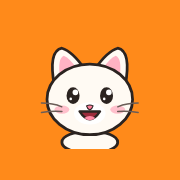
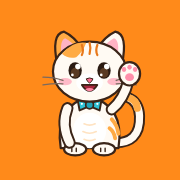
Мурфография: большой кот машет лапкой на заставке, заставка без задержки
- Кот с поднятой «пальцем» лапкой убран везде: вместо него открытая лапка с подушечками (машет «привет»).
- На заставке новый большой кот во весь рост: машет лапкой, виляет хвостом, наклоняет голову, бантик.
- Шрифты Google больше не задерживают первый кадр: раньше при медленной сети страница была пустой
  до 6 секунд и телефон всё это время показывал свою заставку с иконкой. Теперь первый кадр — через 0,07 с.
- Фон страницы оранжевый с самого начала, до загрузки стилей.
- Service worker: сначала сеть (до 3 с), потом кэш — обновления видны сразу. Версия slovarik-v10.
- Иконки с новым котом.

Claude-Session: https://claude.ai/code/session_01NLq2erx4juuCmVjw6yRYvR

Changed region(s): [[0.2222, 0.1667, 0.8056, 0.8889]]

diff --git a/public/slovarik/index.html b/public/slovarik/index.html
@@ -9,11 +9,12 @@
 <link rel="icon" href="icon-192.png" type="image/png">
 <link rel="apple-touch-icon" href="icon-180.png">
 <meta name="theme-color" content="#ff8a1a">
+<style id="boot">html { background: #ff8a1a; }</style>
 <meta name="apple-mobile-web-app-capable" content="yes">
 <meta name="apple-mobile-web-app-title" content="Мурфография">
 <link rel="preconnect" href="https://fonts.googleapis.com">
 <link rel="preconnect" href="https://fonts.gstatic.com" crossorigin>
-<link rel="stylesheet" href="https://fonts.googleapis.com/css2?family=Neucha&family=Nunito:wght@500;700;800;900&display=swap">
+<link rel="stylesheet" href="https://fonts.googleapis.com/css2?family=Neucha&family=Nunito:wght@500;700;800;900&display=swap" media="print" onload="this.media='all'">
 <style>
 :root {
   --paper: #fbfbf6;
@@ -251,9 +252,19 @@ img.thumb { width: 28px; height: 28px; border-radius: 7px; object-fit: cover; bo
 .splash::after { content: ""; position: absolute; inset: 0; background: radial-gradient(circle at 50% 42%, rgba(255,214,90,.75), rgba(255,138,26,0) 45%), radial-gradient(circle at 50% 120%, rgba(232,70,40,.55), rgba(232,70,40,0) 60%); }
 .splash > * { position: relative; z-index: 1; }
 .splash.hide { opacity: 0; transform: scale(1.06); pointer-events: none; }
-.splashcat { width: min(58vw, 250px); aspect-ratio: 1; filter: drop-shadow(0 10px 0 rgba(150,50,0,.25)); }
-.splashcat .kitty { animation: hop .9s cubic-bezier(.3,1.6,.5,1) both, floaty 2.4s ease-in-out .9s infinite; transform-origin: 50% 100%; }
-.splash.tap .splashcat .kitty { animation: hop .45s cubic-bezier(.3,1.6,.5,1); }
+.splashcat { width: min(76vw, 320px); aspect-ratio: 220 / 240; filter: drop-shadow(0 8px 0 rgba(150,50,0,.22)); }
+.bigcat { animation: hop .9s cubic-bezier(.3,1.6,.5,1) both; transform-origin: 50% 100%; overflow: visible; }
+.bigcat .wavepaw { animation: hello .9s ease-in-out infinite; }
+.bigcat .tail { animation: swish 1.6s ease-in-out infinite; }
+.bigcat .head { animation: tilt 2.4s ease-in-out infinite; }
+.bigcat .ears { animation: ears 2.6s ease-in-out infinite; }
+.bigcat .blink { animation: blink 3.4s infinite; }
+.bigcat .sparks { animation: twinkle 1.4s ease-in-out infinite; }
+.splash.tap .bigcat { animation: hop .45s cubic-bezier(.3,1.6,.5,1); }
+@keyframes hello { 0%, 100% { transform: rotate(-4deg); } 50% { transform: rotate(14deg); } }
+@keyframes swish { 0%, 100% { transform: rotate(0); } 50% { transform: rotate(10deg); } }
+@keyframes tilt { 0%, 100% { transform: rotate(-3deg); } 50% { transform: rotate(3deg); } }
+@keyframes twinkle { 50% { opacity: .3; } }
 .splashname { font: 400 clamp(42px, 13vw, 76px)/1 var(--hand); letter-spacing: .5px; white-space: nowrap; }
 .splashname i { display: inline-block; font-style: normal; text-shadow: 0 4px 0 rgba(150,50,0,.35); animation: letterpop .55s cubic-bezier(.3,1.7,.5,1) both; animation-delay: calc(.25s + var(--i) * 55ms); }
 .splashname i.m { color: #fff27a; }
@@ -351,7 +362,7 @@ a.btn { text-decoration: none; display: inline-flex; align-items: center; }
 </style>
 </head>
 <body>
-<div class="splash" id="splash" role="button" aria-label="Мурфография — нажмите, чтобы начать"><div class="splashfly" aria-hidden="true"><b>А</b><b>О</b><b>Ё</b><b>Е</b><b>И</b><b>Я</b><b>Ь</b><b>Ю</b></div><div class="splashcat"><svg viewBox="0 0 120 120" width="100%" height="100%" aria-hidden="true" class="kitty"><ellipse cx="60" cy="112" rx="30" ry="12" fill="#fffaf3" stroke="#2b2320" stroke-width="3"/><g class="ears"><path d="M22 52 Q15 14 30 11 Q41 14 55 34z" fill="#fffaf3" stroke="#2b2320" stroke-width="3" stroke-linejoin="round"/><path d="M98 52 Q105 14 90 11 Q79 14 65 34z" fill="#fffaf3" stroke="#2b2320" stroke-width="3" stroke-linejoin="round"/><path d="M28 42 Q25 22 32 19 Q39 22 46 33z M92 42 Q95 22 88 19 Q81 22 74 33z" fill="#ffb3c4"/></g><ellipse cx="60" cy="66" rx="46" ry="38" fill="#fffaf3" stroke="#2b2320" stroke-width="3"/><ellipse cx="60" cy="81" rx="17" ry="12" fill="#ffffff"/><ellipse cx="30" cy="77" rx="8" ry="4.5" fill="#ff8fab" opacity=".55"/><ellipse cx="90" cy="77" rx="8" ry="4.5" fill="#ff8fab" opacity=".55"/><g class="blink" style="transform-origin:42px 62px"><ellipse cx="42" cy="62" rx="7" ry="9" fill="#2b2320"/><circle cx="44.5" cy="58.5" r="3" fill="#fff"/><circle cx="39.5" cy="65.5" r="1.4" fill="#fff"/></g><g class="blink" style="transform-origin:78px 62px"><ellipse cx="78" cy="62" rx="7" ry="9" fill="#2b2320"/><circle cx="80.5" cy="58.5" r="3" fill="#fff"/><circle cx="75.5" cy="65.5" r="1.4" fill="#fff"/></g><path d="M56.5 73 q3.5 -2 7 0 q-1 3.5 -3.5 4.5 q-2.5 -1 -3.5 -4.5z" fill="#ff7f9c" stroke="#2b2320" stroke-width="1.2"/><path d="M49 79 q11 17 22 0z" fill="#9c2a3a" stroke="#2b2320" stroke-width="2.5" stroke-linejoin="round"/><path d="M54 86 q6 5 12 0 q-6 -4 -12 0" fill="#ff8aa5"/><path d="M8 70 q12 0 22 4 M8 80 q12 -2 22 -1 M112 70 q-12 0 -22 4 M112 80 q-12 -2 -22 -1" stroke="#6b5d57" stroke-width="1.6" fill="none" stroke-linecap="round"/><g class="wave" style="transform-origin:98px 104px"><rect x="86" y="84" width="22" height="20" rx="9" fill="#fffaf3" stroke="#2b2320" stroke-width="2.5"/><rect x="90" y="70" width="10" height="20" rx="5" fill="#fffaf3" stroke="#2b2320" stroke-width="2.5"/><path d="M92 98 v4 M98 98 v4 M104 98 v4" stroke="#2b2320" stroke-width="1.5" stroke-linecap="round"/></g></svg></div><div class="splashname" aria-hidden="true"><i class="m" style="--i:0">М</i><i class="m" style="--i:1">у</i><i class="m" style="--i:2">р</i><i style="--i:3">ф</i><i style="--i:4">о</i><i style="--i:5">г</i><i style="--i:6">р</i><i style="--i:7">а</i><i style="--i:8">ф</i><i style="--i:9">и</i><i style="--i:10">я</i></div><div class="splashsub">словарные слова с котами</div></div>
+<div class="splash" id="splash" role="button" aria-label="Мурфография — нажмите, чтобы начать"><div class="splashfly" aria-hidden="true"><b>А</b><b>О</b><b>Ё</b><b>Е</b><b>И</b><b>Я</b><b>Ь</b><b>Ю</b></div><div class="splashcat"><svg viewBox="0 0 220 240" width="100%" height="100%" aria-hidden="true" class="bigcat"><ellipse cx="110" cy="230" rx="70" ry="9" fill="#b34a00" opacity=".25"/><g class="tail" style="transform-origin:150px 210px"><path d="M150 212 q52 4 50 -48 q-1 -26 -22 -34" fill="none" stroke="#3a2418" stroke-width="20" stroke-linecap="round"/><path d="M150 212 q52 4 50 -48 q-1 -26 -22 -34" fill="none" stroke="#fffaf3" stroke-width="13" stroke-linecap="round"/><path d="M196 150 q-1 -16 -18 -20" fill="none" stroke="#ffab45" stroke-width="13" stroke-linecap="round"/></g><path d="M58 222 q-12 -78 52 -92 q64 14 52 92 z" fill="#fffaf3" stroke="#3a2418" stroke-width="4" stroke-linejoin="round"/><path d="M150 170 q10 10 12 26 M146 186 q8 6 10 18" stroke="#ffab45" stroke-width="7" fill="none" stroke-linecap="round"/><ellipse cx="110" cy="190" rx="30" ry="32" fill="#fff" /><path d="M100 178 q10 5 20 0 M98 192 q12 6 24 0 M100 206 q10 5 20 0" stroke="#ffe3c2" stroke-width="3" fill="none" stroke-linecap="round"/><ellipse cx="84" cy="224" rx="20" ry="11" fill="#fffaf3" stroke="#3a2418" stroke-width="4"/><ellipse cx="136" cy="224" rx="20" ry="11" fill="#fffaf3" stroke="#3a2418" stroke-width="4"/><path d="M78 222 v6 M86 222 v6 M130 222 v6 M138 222 v6" stroke="#3a2418" stroke-width="2.5" stroke-linecap="round"/><path d="M70 150 q-12 30 4 62" fill="none" stroke="#3a2418" stroke-width="22" stroke-linecap="round"/><path d="M70 150 q-12 30 4 62" fill="none" stroke="#fffaf3" stroke-width="15" stroke-linecap="round"/><path d="M88 132 l22 10 l22 -10 l-4 22 l-18 -8 l-18 8 z" fill="#2fc2d6" stroke="#3a2418" stroke-width="3.5" stroke-linejoin="round"/><circle cx="110" cy="144" r="7" fill="#20a3b8" stroke="#3a2418" stroke-width="3"/><circle cx="96" cy="142" r="2" fill="#fff"/><circle cx="124" cy="142" r="2" fill="#fff"/><g class="head" style="transform-origin:110px 130px"><g class="ears" style="transform-origin:110px 60px"><path d="M52 72 Q40 16 64 12 Q82 20 98 44z" fill="#ffab45" stroke="#3a2418" stroke-width="4" stroke-linejoin="round"/><path d="M168 72 Q180 16 156 12 Q138 20 122 44z" fill="#fffaf3" stroke="#3a2418" stroke-width="4" stroke-linejoin="round"/><path d="M60 58 Q55 28 66 24 Q78 30 88 44z M160 58 Q165 28 154 24 Q142 30 132 44z" fill="#ffb3c4"/></g><ellipse cx="110" cy="84" rx="66" ry="54" fill="#fffaf3" stroke="#3a2418" stroke-width="4"/><path d="M60 52 q20 -24 44 -20 q-6 16 -18 26 q-14 4 -26 -6z" fill="#ffab45"/><path d="M96 36 q4 10 0 18 M110 32 q3 10 0 20 M124 36 q-4 10 0 18" stroke="#e8781a" stroke-width="4" fill="none" stroke-linecap="round"/><ellipse cx="110" cy="104" rx="24" ry="17" fill="#fff"/><ellipse cx="66" cy="102" rx="12" ry="6.5" fill="#ff8fab" opacity=".6"/><ellipse cx="154" cy="102" rx="12" ry="6.5" fill="#ff8fab" opacity=".6"/><g class="blink" style="transform-origin:84px 82px"><ellipse cx="84" cy="82" rx="12" ry="15" fill="#2a1a12"/><ellipse cx="84" cy="86" rx="8" ry="9" fill="#5a3a22"/><circle cx="89" cy="75" r="5" fill="#fff"/><circle cx="79" cy="90" r="2.4" fill="#fff"/></g><g class="blink" style="transform-origin:136px 82px"><ellipse cx="136" cy="82" rx="12" ry="15" fill="#2a1a12"/><ellipse cx="136" cy="86" rx="8" ry="9" fill="#5a3a22"/><circle cx="141" cy="75" r="5" fill="#fff"/><circle cx="131" cy="90" r="2.4" fill="#fff"/></g><path d="M104 97 q6 -3 12 0 q-2 6 -6 7.5 q-4 -1.5 -6 -7.5z" fill="#ff6f93" stroke="#3a2418" stroke-width="1.8"/><path d="M96 108 q14 22 28 0 z" fill="#a8263e" stroke="#3a2418" stroke-width="3" stroke-linejoin="round"/><path d="M102 116 q8 7 16 0 q-8 -5 -16 0" fill="#ff8aa5"/><path d="M26 94 q20 0 36 6 M26 108 q20 -3 36 -2 M194 94 q-20 0 -36 6 M194 108 q-20 -3 -36 -2" stroke="#7a6a60" stroke-width="2.4" fill="none" stroke-linecap="round"/></g><g class="wavepaw" style="transform-origin:150px 150px"><path d="M150 152 q22 -18 30 -52" fill="none" stroke="#3a2418" stroke-width="22" stroke-linecap="round"/><path d="M150 152 q22 -18 30 -52" fill="none" stroke="#fffaf3" stroke-width="15" stroke-linecap="round"/><ellipse cx="182" cy="88" rx="19" ry="21" fill="#fffaf3" stroke="#3a2418" stroke-width="4"/><ellipse cx="182" cy="94" rx="8" ry="7" fill="#ff8fab"/><ellipse cx="172" cy="80" rx="4" ry="4.5" fill="#ff8fab"/><ellipse cx="182" cy="76" rx="4" ry="4.5" fill="#ff8fab"/><ellipse cx="192" cy="80" rx="4" ry="4.5" fill="#ff8fab"/></g><g class="sparks"><path d="M28 40 l3 8 8 3 -8 3 -3 8 -3 -8 -8 -3 8 -3z" fill="#fff27a"/><path d="M200 36 l2 6 6 2 -6 2 -2 6 -2 -6 -6 -2 6 -2z" fill="#fff"/><path d="M20 160 l2 5 5 2 -5 2 -2 5 -2 -5 -5 -2 5 -2z" fill="#fff"/></g></svg></div><div class="splashname" aria-hidden="true"><i class="m" style="--i:0">М</i><i class="m" style="--i:1">у</i><i class="m" style="--i:2">р</i><i style="--i:3">ф</i><i style="--i:4">о</i><i style="--i:5">г</i><i style="--i:6">р</i><i style="--i:7">а</i><i style="--i:8">ф</i><i style="--i:9">и</i><i style="--i:10">я</i></div><div class="splashsub">словарные слова с котами</div></div>
 <div class="wrap" id="app"></div>
 <nav class="tabs" id="tabs" aria-label="Разделы"></nav>
 <div class="toast" id="toast" hidden></div>

diff --git a/public/slovarik/app.js b/public/slovarik/app.js
@@ -375,7 +375,7 @@
     }[o.mouth];
     const extra = {
       none: '',
-      thumb: `<g class="wave" style="transform-origin:98px 104px"><rect x="86" y="84" width="22" height="20" rx="9" fill="${fur}" stroke="${ink}" stroke-width="2.5"/><rect x="90" y="70" width="10" height="20" rx="5" fill="${fur}" stroke="${ink}" stroke-width="2.5"/><path d="M92 98 v4 M98 98 v4 M104 98 v4" stroke="${ink}" stroke-width="1.5" stroke-linecap="round"/></g>`,
+      hi: `<g class="wave" style="transform-origin:94px 104px"><path d="M92 104 q8 -12 10 -26" fill="none" stroke="${ink}" stroke-width="13" stroke-linecap="round"/><path d="M92 104 q8 -12 10 -26" fill="none" stroke="${fur}" stroke-width="8" stroke-linecap="round"/><ellipse cx="103" cy="72" rx="11" ry="12" fill="${fur}" stroke="${ink}" stroke-width="2.5"/><ellipse cx="103" cy="76" rx="4.5" ry="4" fill="#ff8fab"/><circle cx="97.5" cy="67.5" r="2.3" fill="#ff8fab"/><circle cx="103" cy="65" r="2.3" fill="#ff8fab"/><circle cx="108.5" cy="67.5" r="2.3" fill="#ff8fab"/></g>`,
       hat: `<path d="M60 0 l15 30 h-30z" fill="#8e5bd6" stroke="${ink}" stroke-width="2.5" stroke-linejoin="round"/><circle cx="60" cy="1" r="5" fill="#ffd23f" stroke="${ink}" stroke-width="2"/><circle cx="55" cy="20" r="2.5" fill="#ffd23f"/><circle cx="64" cy="13" r="2.5" fill="#6fe0ff"/>`,
       sweat: `<path d="M97 34 q-7 11 0 16 q7 -5 0 -16z" fill="#8fd3ff" stroke="${ink}" stroke-width="1.5"/>`,
       q: `<text x="96" y="30" font-size="30" font-weight="900" fill="#2451c7" font-family="Nunito, sans-serif" class="bob">?</text>`,
@@ -411,13 +411,13 @@
   const BLACK = { fur: '#3d3e48', muzzle: '#5b5d69', dark: true };
   const CREAM = { fur: '#f3dfc1', stripes: '#dcbb8c', muzzle: '#fffaf0' };
   const CATS_GOOD = [
-    ['', { ...GINGER, eyes: 'happy', mouth: 'w', extra: 'thumb' }],
+    ['', { ...GINGER, eyes: 'happy', mouth: 'w', extra: 'hi' }],
     ['', { ...WHITE, eyes: 'love', mouth: 'w', extra: 'hearts' }],
     ['', { ...GREY, eyes: 'star', mouth: 'grin', extra: 'sparkles' }],
     ['', { ...BLACK, eyes: 'cool', mouth: 'w' }],
     ['', { ...GINGER, eyes: 'laugh', mouth: 'grin', extra: 'hat' }],
     ['', { ...GREY, eyes: 'happy', mouth: 'w', extra: 'crown' }],
-    ['', { ...CREAM, eyes: 'wink', mouth: 'grin', extra: 'thumb' }],
+    ['', { ...CREAM, eyes: 'wink', mouth: 'grin', extra: 'hi' }],
     ['', { ...WHITE, eyes: 'sparkle', mouth: 'grin', extra: 'paws' }],
     ['', { ...BLACK, eyes: 'love', mouth: 'w', extra: 'hearts' }],
     ['', { ...CREAM, eyes: 'star', mouth: 'w', extra: 'crown' }],
@@ -1499,7 +1499,7 @@
     return `
       <article class="panel card">
         <div class="result">${'★'.repeat(stars)}<span style="color:var(--line)">${'★'.repeat(3 - stars)}</span></div>
-        <div class="resultcat">${catSvg(stars === 3 ? { ...BLACK, eyes: 'cool', mouth: 'grin', extra: 'crown' } : stars === 2 ? { ...GINGER, eyes: 'happy', mouth: 'w', extra: 'thumb' } : { ...WHITE, eyes: 'side', mouth: 'flat', extra: 'paws' })}</div>
+        <div class="resultcat">${catSvg(stars === 3 ? { ...BLACK, eyes: 'cool', mouth: 'grin', extra: 'crown' } : stars === 2 ? { ...GINGER, eyes: 'happy', mouth: 'w', extra: 'hi' } : { ...WHITE, eyes: 'side', mouth: 'flat', extra: 'paws' })}</div>
         <div class="meme">${esc(withName(stars === 3 ? pickOne(['{n}, ТЫ {БОЛЬШОЙ МОЛОДЕЦ/БОЛЬШАЯ УМНИЦА}!', 'ТЫ {ОТЛИЧНО ПОСТАРАЛСЯ/ОТЛИЧНО ПОСТАРАЛАСЬ}!', 'ВЕЛИКОЛЕПНО! КОТ ГОРДИТСЯ ТОБОЙ', 'БЕЗ ЕДИНОЙ ОШИБКИ — БЛЕСТЯЩЕ!']) : stars === 2 ? pickOne(['{n}, ХОРОШО! ЕЩЁ НЕМНОГО — И БУДЕТ ОТЛИЧНО', 'ХОРОШАЯ РАБОТА! ПРОДОЛЖАЕМ']) : pickOne(['НЕ БЕДА, {n}. ПОВТОРЕНИЕ — МАТЬ УЧЕНИЯ', 'КОТ ВЕРИТ В ТЕБЯ. ПОПРОБУЕМ ЕЩЁ РАЗ'])))}</div>
         <h2>${stars === 3 ? 'Отлично!' : stars === 2 ? 'Хорошо!' : 'Надо ещё потренироваться'}</h2>
         <p class="lead">Без ошибок с первого раза: <b>${good} из ${total}</b></p>
@@ -1790,7 +1790,7 @@
     const hide = (delay) => {
       if (done) return;
       done = true;
-      setTimeout(() => { el.classList.add('hide'); setTimeout(() => el.remove(), 450); }, delay);
+      setTimeout(() => { el.classList.add('hide'); setTimeout(() => { el.remove(); document.getElementById('boot')?.remove(); }, 450); }, delay);
     };
     el.addEventListener('click', (e) => {
       // Нажатие: котик подпрыгивает, разлетаются сердечки — и сразу в приложение.

diff --git a/public/slovarik/sw.js b/public/slovarik/sw.js
@@ -1,7 +1,7 @@
-/* Работа без интернета: файлы словарика хранятся в кэше телефона.
-   При каждом открытии приложение берёт файлы из кэша сразу, а в фоне скачивает свежие —
-   поэтому обновления появляются со второго запуска. Меняйте VERSION при крупных изменениях. */
-const VERSION = 'slovarik-v9';
+/* Работа без интернета. Сначала пробуем взять свежий файл из сети (не дольше 3 секунд),
+   а если сети нет или она медленная — берём из кэша телефона. Поэтому обновления
+   видны сразу при следующем открытии. Меняйте VERSION при крупных изменениях. */
+const VERSION = 'slovarik-v10';
 const FILES = ['./', 'index.html', 'app.js', 'words.js', 'config.js', 'manifest.webmanifest', 'icon-192.png', 'icon-512.png', 'icon-180.png'];
 
 self.addEventListener('install', (e) => {
@@ -17,7 +17,9 @@ self.addEventListener('fetch', (e) => {
   if (req.method !== 'GET' || new URL(req.url).origin !== location.origin) return;
   e.respondWith(caches.open(VERSION).then(async (cache) => {
     const cached = await cache.match(req, { ignoreSearch: true });
-    const fresh = fetch(req).then((res) => { if (res.ok) cache.put(req, res.clone()); return res; }).catch(() => cached);
-    return cached || fresh;
+    const fresh = fetch(req, { cache: 'no-cache' }).then((res) => { if (res.ok) cache.put(req, res.clone()); return res; });
+    if (!cached) return fresh;
+    const slow = new Promise((ok) => setTimeout(() => ok(cached), 3000));
+    return Promise.race([fresh.catch(() => cached), slow]);
   }));
 });

diff --git a/public/slovarik/README.md b/public/slovarik/README.md
@@ -39,8 +39,11 @@
   на вкладке «Слова» появляется «Пора повторить».
 - **Прогресс.** Серия дней подряд, график занятий за 2 недели, выучено по классам,
   самые трудные слова. Всё хранится только на этом устройстве, никаких кабинетов и входов.
-- **Заставка.** Яркий оранжевый экран с котом и названием появляется сразу (он нарисован прямо
-  в `index.html`), через 2 секунды исчезает сам, нажатие пропускает его.
+- **Заставка.** Яркий оранжевый экран с большим котом, который машет лапкой, появляется сразу
+  (он нарисован прямо в `index.html`, а шрифты грузятся уже после первого кадра и не задерживают его).
+  Через 2 секунды заставка исчезает сама, нажатие её пропускает.
+- **Обновления.** Приложение сначала берёт свежие файлы из сети (ждёт не дольше 3 секунд),
+  без интернета работает из кэша телефона.
 - **Установка на телефон.** Иконка на главном экране, работает без интернета (после первого открытия).
 - **«Нашли ошибку?»** — готовый текст сообщения, который можно скопировать и отправить автору.
 - В тренировке следующее слово появляется само (после ошибки — чуть позже, чтобы успеть прочитать).
